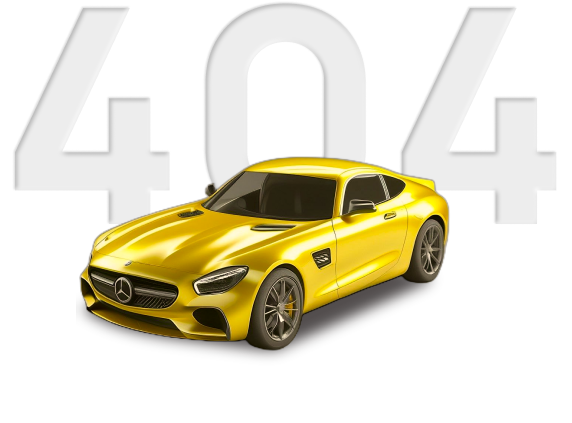
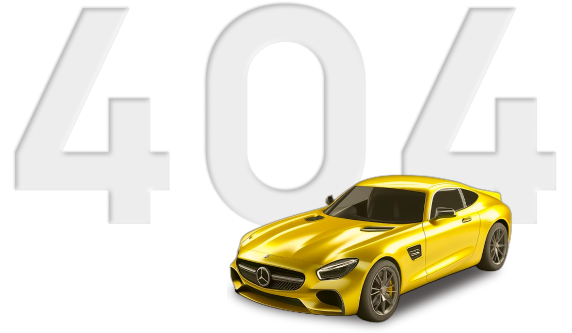
Fix: 404 page

diff --git a/src/widgets/Error/ui/styled.ts b/src/widgets/Error/ui/styled.ts
@@ -3,10 +3,8 @@ import colors from '@/shared/constants/colors'
 import styled from 'styled-components'
 
 const Section = styled.section`
-  padding-top: 118px;
-  padding-bottom: 170px;
   background-color: ${colors.backgroundBase2};
-  height: 100vh;
+
   @media (max-width: 760px) {
     background-color: ${colors.backgroundPrimary};
   }
@@ -14,17 +12,17 @@ const Section = styled.section`
 
 const ColumnConatiner = styled.div`
   position: relative;
-  margin: 0 auto;
+  margin: 40px auto;
   border-radius: 20px;
-  max-width: 1180px;
-  width: 100%;
-  height: 700px;
+  width: 1180px;
+  height: 565px;
   box-shadow: 2px 2px 25px 0px rgba(16, 16, 16, 0.05);
-  background-color: var(--base-01, #fff);
+  background-color: #fff;
   display: flex;
   flex-direction: column;
-  padding: 90px 80px 8px;
+  padding: 120px 84px;
 
+  justify-content: center;
   @media (max-width: 1300px) {
     padding: 80px 60px 8px;
     height: 522px;
@@ -48,9 +46,9 @@ const ColumnConatiner = styled.div`
 `
 
 const ColumnWrapper = styled.div`
-  max-width: 539px;
+  max-width: 1180px;
   width: 100%;
-  gap: 20px;
+  gap: 40px;
   display: flex;
 
   @media (max-width: 1300px) {
@@ -76,9 +74,14 @@ const ImgColumn = styled.div`
   display: flex;
   flex-direction: column;
   line-height: normal;
-  max-width: 80px;
+  min-width: 572px;
   width: 100%;
   margin-left: 0px;
+  position: relative;
+
+  @media (max-width: 1280px) {
+    display: none;
+  }
 
   @media (max-width: 760px) {
     display: none;
@@ -88,20 +91,15 @@ const ImgColumn = styled.div`
   }
 `
 
-const Img = styled.img`
-  aspect-ratio: 1;
-  object-fit: auto;
-  object-position: center;
-  width: 80px;
-`
-
 const TextColumn = styled.div`
   display: flex;
   flex-direction: column;
   line-height: normal;
   margin-top: 14px;
   gap: 24px;
+  min-width: 400px;
   width: 100%;
+
   @media (max-width: 1300px) {
     margin-top: 20px;
     width: 100%;
@@ -127,6 +125,7 @@ const ErrorText = styled.p`
   font:
     400 16px Manrope,
     sans-serif;
+
   @media (max-width: 1300px) {
     max-width: 100%;
   }
@@ -163,33 +162,35 @@ const ErrorButton = styled.a`
 `
 
 const ErrorImgWrapper = styled.div`
-  position: absolute;
-  top: 250px;
-  left: 522px;
   max-width: 556px;
   width: 100%;
   max-height: 415px;
   align-self: center;
 
   @media (max-width: 1300px) {
-    top: 195px;
-    left: 450px;
-    max-width: 419px;
-    width: 100%;
-    max-height: 318px;
+    // top: 195px;
+    // left: 450px;
+    // max-width: 419px;
+    // width: 100%;
+    // max-height: 318px;
+
+    display: none;
   }
 
   @media (max-width: 940px) {
-    top: 177px;
-    left: 388px;
-    max-width: 286px;
-    width: 100%;
-    max-height: 221px;
+    // top: 177px;
+    // left: 388px;
+    // max-width: 286px;
+    // width: 100%;
+    // max-height: 221px;
+    display: none;
   }
   @media (max-width: 760px) {
-    position: relative;
-    left: 0;
-    top: 0;
+    // position: relative;
+    // left: 0;
+    // top: 0;
+    // display: none;
+
     display: none;
   }
 `
@@ -218,7 +219,6 @@ export {
   ErrorName,
   ErrorText,
   ErrorButton,
-  Img,
   ErrorImgWrapper,
   ImgColumn,
   TextColumn,

diff --git a/src/app/page.tsx b/src/app/page.tsx
@@ -1,7 +1,11 @@
 'use client'
+
+import React, { useEffect, useState } from 'react'
+
+import Loader from '@/shared/components/Loader/Loader'
+
 import styles from './page.module.css'
-import { Header } from '@/widgets/Header'
-import { headerNavLinks } from '@/shared/constants/texts/header-nav-items'
+
 import { Info } from '@/widgets/Info'
 import { OurServices } from '@/widgets/OurServices'
 import { ReadySolutionSection } from '@/widgets/ReadySolutionSection'
@@ -13,10 +17,8 @@ import { ReviewsBlock } from '@/widgets/ReviewsBlock'
 import { ExamplesSlider } from '@/widgets/ExamplesSlider'
 import { OurClients } from '@/widgets/OurClients'
 import { ContactForm } from '@/widgets/ContactForm'
-import { Footer } from '@/widgets/Footer'
-import { Header } from '@/widgets/Header'
 
-import styles from './page.module.css'
+import { Calculator } from '@/widgets/Calculator'
 
 export default function Home() {
   const [isLoading, setIsLoading] = useState(true)
@@ -26,21 +28,27 @@ export default function Home() {
       setIsLoading(false)
     }, 2000)
   }, [])
+
   return (
     <main className={styles.main}>
-      <Header navLinks={headerNavLinks} />
-      <Info />
-      <OurServices />
-      <ReadySolutionSection />
-      <AdvantagesBlock />
-      <ProjectStage />
-      <OurTeam />
-      <Questions />
-      <ReviewsBlock />
-      <ExamplesSlider />
-      <OurClients />
-      <ContactForm />
-      <Footer />
+      {isLoading ? (
+        <Loader />
+      ) : (
+        <>
+          <Info />
+          <OurServices />
+          <ReadySolutionSection />
+          <Calculator />
+          <AdvantagesBlock />
+          <ProjectStage />
+          <OurTeam />
+          <Questions />
+          <ReviewsBlock />
+          <ExamplesSlider />
+          <OurClients />
+          <ContactForm />
+        </>
+      )}
     </main>
   )
 }

diff --git a/src/widgets/Error/ui/Error.tsx b/src/widgets/Error/ui/Error.tsx
@@ -10,29 +10,27 @@ import {
   ErrorText,
   ErrorButton,
   ErrorImgWrapper,
-  ImgColumn,
   TextColumn,
-  ErrorImgHiddenWrapper,
 } from './styled.ts'
 
-const Error: FC<TError> = ({ errorText, errorImg, warningImg, errorMessage, errorCode }) => {
+const Error: FC<TError> = ({ errorText, errorImg, errorMessage, errorCode }) => {
   return (
     <Section>
       <ColumnConatiner>
         <ColumnWrapper>
-          <ImgColumn>
-            <Image src={warningImg} alt="aa" />
-          </ImgColumn>
           <TextColumn>
             <ErrorName>{errorMessage}</ErrorName>
-            <ErrorImgHiddenWrapper>
-              <Image src={errorImg} alt={`Ошибка ${errorCode} - ${errorMessage}`} />
-            </ErrorImgHiddenWrapper>
+
             <ErrorText>{errorText}</ErrorText>
             <ErrorButton href="/">На главную</ErrorButton>
           </TextColumn>
           <ErrorImgWrapper>
-            <Image src={errorImg} alt={`Ошибка ${errorCode} - ${errorMessage}`} />
+            <Image
+              src={errorImg}
+              alt={`Ошибка ${errorCode} - ${errorMessage}`}
+              width={572}
+              height={325}
+            />
           </ErrorImgWrapper>
         </ColumnWrapper>
       </ColumnConatiner>

diff --git a/src/app/sitemap.ts b/src/app/sitemap.ts
@@ -9,20 +9,31 @@ export default function sitemap(): MetadataRoute.Sitemap {
       priority: 1,
     },
     {
-      url: 'https://opticontrol.ru/surveillance',
+      url: 'https://opticontrol.ru/security',
       lastModified: new Date(),
       changeFrequency: 'monthly',
       priority: 0.8,
     },
     {
-      url: 'https://opticontrol.ru/acces-control-system',
+      url: 'https://opticontrol.ru/video-surveillance',
       lastModified: new Date(),
       changeFrequency: 'weekly',
       priority: 0.5,
     },
-
     {
       url: 'https://opticontrol.ru/examples',
+      lastModified: new Date(),
+      changeFrequency: 'weekly',
+      priority: 0.5,
+    },
+    {
+      url: 'https://opticontrol.ru/ourworks',
+      lastModified: new Date(),
+      changeFrequency: 'weekly',
+      priority: 0.5,
+    },
+    {
+      url: 'https://opticontrol.ru/domofon',
       lastModified: new Date(),
       changeFrequency: 'weekly',
       priority: 0.5,

diff --git a/src/shared/constants/texts/error-404.ts b/src/shared/constants/texts/error-404.ts
@@ -1,13 +1,11 @@
 import error404Img from '@/assets/errors/404/error404Img.png'
-import warning404Img from '@/assets/errors/404/warning404Img.png'
 
 import { TError404 } from './types'
 
 export const error404: TError404 = {
   id: 1,
   errorCode: '404',
-  errorMessage: 'Такой страницы нет...',
-  errorText: `Наша компания предоставляет специалистов высокой квалификации, которые быстро и\u00A0качественно установят все необходимое оборудование.`,
+  errorMessage: 'Данной страницы не существует',
+  errorText: `Вернитесь на главную\u000Aили к каталогу наших систем безопасности`,
   errorImg: error404Img,
-  warningImg: warning404Img,
 }

diff --git a/src/shared/constants/texts/types.ts b/src/shared/constants/texts/types.ts
@@ -19,7 +19,6 @@ export type TError505 = {
   errorCode: string
   errorMessage: string
   errorText: string
-  errorImg: StaticImageData
   warningImg: StaticImageData
 }
 
@@ -28,7 +27,6 @@ export type TError404 = {
   errorCode: string
   errorText: string
   errorImg: StaticImageData
-  warningImg: StaticImageData
   errorMessage: string
 }
 

diff --git a/src/app/not-found.tsx b/src/app/not-found.tsx
@@ -9,7 +9,6 @@ const NotFound = () => {
       errorCode={error404.errorCode}
       errorText={error404.errorText}
       errorImg={error404.errorImg}
-      warningImg={error404.warningImg}
       errorMessage={error404.errorMessage}
     />
   )

diff --git a/src/widgets/Error/ui/types.ts b/src/widgets/Error/ui/types.ts
@@ -4,6 +4,5 @@ export type TError = {
   errorCode: string
   errorText: string
   errorImg: StaticImageData
-  warningImg: StaticImageData
   errorMessage: string
 }
